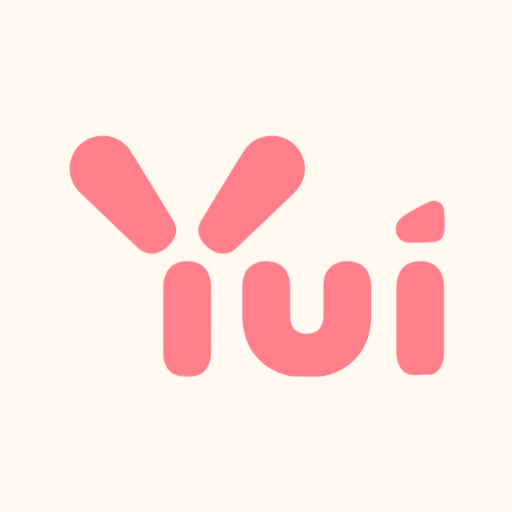
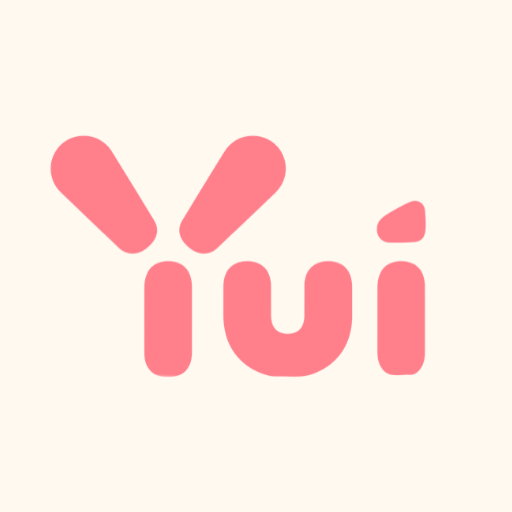
The wordmark is optically centered: 5% of its width left, everywhere it is centered
The Y's left arm leaves open space under it, so centered by its box the
wordmark looks like it sits right. Wherever it is centered it now draws 5%
of its own width to the left; nothing moves up or down, and the Y mark alone
is unchanged.

- brand/yui-logo-*.png and their site copies carry the shift in their padding.
- site/app/icon.png, apple-icon.png and the square logos in site/public/brand
  are rebuilt with it.
- Press kit card shows the padded logo, so the shift comes with it.
- Videos: the outro and header wordmark center with translateX(-55%) in the
  kit and the early compositions.
- brand/README.md writes the rule down.

Changed region(s): [[0.0938, 0.25, 0.875, 0.75]]

diff --git a/videos/01-meet-yui/work/comp.html b/videos/01-meet-yui/work/comp.html
@@ -50,7 +50,7 @@ html, body { margin: 0; width: 1920px; height: 1080px; overflow: hidden; backgro
 .apphead { position: absolute; left: 0; right: 0; top: 54px; height: 60px; z-index: 4; background: linear-gradient(var(--background) 70%, rgba(255,249,240,0)); }
 .hbtn { position: absolute; top: 4px; width: 44px; height: 44px; border-radius: 50%; background: #F6EDE2; box-shadow: 0 1px 2px rgba(58,51,64,.08), inset 0 0 0 1px #EFE3D5; display: grid; place-items: center; }
 .hbtn svg { width: 22px; height: 22px; }
-.apphead .hwm { position: absolute; left: 50%; top: 13px; height: 25px; transform: translateX(-50%); }
+.apphead .hwm { position: absolute; left: 50%; top: 13px; height: 25px; transform: translateX(-55%); }
 .chat { position: absolute; left: 0; right: 0; top: 104px; bottom: 86px; overflow: hidden; -webkit-mask-image: linear-gradient(transparent 0, #000 22px); }
 .log { position: absolute; left: 0; right: 0; bottom: 0; padding: 0 16px 10px; }
 .msg { overflow: visible; }
@@ -104,7 +104,7 @@ html, body { margin: 0; width: 1920px; height: 1080px; overflow: hidden; backgro
 
 /* Outro */
 #outro { position: absolute; left: 0; right: 0; top: 0; height: 1080px; text-align: center; }
-#outro .wm { height: 230px; margin: 0 auto; position: absolute; left: 50%; top: 190px; transform: translateX(-50%); }
+#outro .wm { height: 230px; margin: 0 auto; position: absolute; left: 50%; top: 190px; transform: translateX(-55%); }
 #outro .tag { position: absolute; left: 0; right: 0; top: 480px; font-size: 76px; font-weight: 800; letter-spacing: -0.02em; }
 #outro .url { position: absolute; left: 0; right: 0; top: 600px; font-size: 64px; font-weight: 800; color: var(--link); letter-spacing: -0.01em; }
 #outro .pills { position: absolute; left: 0; right: 0; top: 720px; display: flex; justify-content: center; gap: 20px; }
@@ -481,7 +481,7 @@ function render(t) {
   if (ov) {
     const w = back(prog(t, 18.5, 19.0));
     $("owm").style.opacity = clamp(prog(t, 18.5, 18.66));
-    $("owm").style.transform = `translateX(-50%) scale(${0.6 + 0.4 * w + prog(t, 19, 21.5) * 0.03})`;
+    $("owm").style.transform = `translateX(-55%) scale(${0.6 + 0.4 * w + prog(t, 19, 21.5) * 0.03})`;
     textIO($("otag"), t, 18.86, 99);
     textIO($("ourl"), t, 19.22, 99);
     textIO($("opills"), t, 19.5, 99, 20);

diff --git a/videos/03-jam/work/comp-reel.html b/videos/03-jam/work/comp-reel.html
@@ -41,7 +41,7 @@ html, body { margin: 0; width: 1080px; height: 1920px; overflow: hidden; backgro
 .apphead { position: absolute; left: 0; right: 0; top: 54px; height: 60px; z-index: 4; background: linear-gradient(var(--background) 70%, rgba(35,29,51,0)); }
 .hbtn { position: absolute; top: 4px; width: 44px; height: 44px; border-radius: 50%; background: var(--raised); box-shadow: inset 0 0 0 1px var(--outline); display: grid; place-items: center; }
 .hbtn svg { width: 22px; height: 22px; }
-.hwm { position: absolute; left: 50%; top: 13px; height: 25px; transform: translateX(-50%); }
+.hwm { position: absolute; left: 50%; top: 13px; height: 25px; transform: translateX(-55%); }
 .chat { position: absolute; left: 0; right: 0; top: 104px; bottom: 86px; overflow: hidden; -webkit-mask-image: linear-gradient(transparent 0, #000 22px); }
 .log { position: absolute; left: 0; right: 0; bottom: 0; padding: 0 14px 10px; }
 .msg > .in { transform-origin: 50% 100%; }
@@ -465,7 +465,7 @@ function render(t) {
   if (ov) {
     const w = back(prog(t, 57.4, 57.9));
     $("owm").style.opacity = clamp(prog(t, 57.4, 57.55));
-    $("owm").style.transform = `translateX(-50%) scale(${0.6 + 0.4 * w + prog(t, 58, 64) * 0.03 + 0.03 * clamp(pulse)})`;
+    $("owm").style.transform = `translateX(-55%) scale(${0.6 + 0.4 * w + prog(t, 58, 64) * 0.03 + 0.03 * clamp(pulse)})`;
     textIO($("otag"), t, 57.8, 99, 30, false);
     textIO($("ourl"), t, 58.2, 99, 30, false);
     textIO($("onote"), t, 58.6, 99, 20, false);

diff --git a/videos/03-jam/work/comp.html b/videos/03-jam/work/comp.html
@@ -41,7 +41,7 @@ html, body { margin: 0; width: 1920px; height: 1080px; overflow: hidden; backgro
 .apphead { position: absolute; left: 0; right: 0; top: 54px; height: 60px; z-index: 4; background: linear-gradient(var(--background) 70%, rgba(35,29,51,0)); }
 .hbtn { position: absolute; top: 4px; width: 44px; height: 44px; border-radius: 50%; background: var(--raised); box-shadow: inset 0 0 0 1px var(--outline); display: grid; place-items: center; }
 .hbtn svg { width: 22px; height: 22px; }
-.hwm { position: absolute; left: 50%; top: 13px; height: 25px; transform: translateX(-50%); }
+.hwm { position: absolute; left: 50%; top: 13px; height: 25px; transform: translateX(-55%); }
 .chat { position: absolute; left: 0; right: 0; top: 104px; bottom: 86px; overflow: hidden; -webkit-mask-image: linear-gradient(transparent 0, #000 22px); }
 .log { position: absolute; left: 0; right: 0; bottom: 0; padding: 0 14px 10px; }
 .msg > .in { transform-origin: 50% 100%; }
@@ -465,7 +465,7 @@ function render(t) {
   if (ov) {
     const w = back(prog(t, 57.4, 57.9));
     $("owm").style.opacity = clamp(prog(t, 57.4, 57.55));
-    $("owm").style.transform = `translateX(-50%) scale(${0.6 + 0.4 * w + prog(t, 58, 64) * 0.03 + 0.03 * clamp(pulse)})`;
+    $("owm").style.transform = `translateX(-55%) scale(${0.6 + 0.4 * w + prog(t, 58, 64) * 0.03 + 0.03 * clamp(pulse)})`;
     textIO($("otag"), t, 57.8, 99, 30, false);
     textIO($("ourl"), t, 58.2, 99, 30, false);
     textIO($("onote"), t, 58.6, 99, 20, false);

diff --git a/videos/02-plan-to-launch/work/comp-reel.html b/videos/02-plan-to-launch/work/comp-reel.html
@@ -36,7 +36,7 @@ html, body { margin: 0; width: 1080px; height: 1920px; overflow: hidden; backgro
 .apphead { position: absolute; left: 0; right: 0; top: 54px; height: 60px; z-index: 4; background: linear-gradient(var(--background) 70%, rgba(255,249,240,0)); }
 .hbtn { position: absolute; top: 4px; width: 44px; height: 44px; border-radius: 50%; background: #F6EDE2; box-shadow: 0 1px 2px rgba(58,51,64,.08), inset 0 0 0 1px #EFE3D5; display: grid; place-items: center; }
 .hbtn svg { width: 22px; height: 22px; }
-#hwm { position: absolute; left: 50%; top: 13px; height: 25px; transform: translateX(-50%); }
+#hwm { position: absolute; left: 50%; top: 13px; height: 25px; transform: translateX(-55%); }
 .chat { position: absolute; left: 0; right: 0; top: 104px; bottom: 86px; overflow: hidden; -webkit-mask-image: linear-gradient(transparent 0, #000 22px); }
 .log { position: absolute; left: 0; right: 0; bottom: 0; padding: 0 14px 10px; }
 .msg > .in { transform-origin: 50% 100%; }
@@ -674,7 +674,7 @@ function render(t) {
   if (ov) {
     const w = back(prog(t, b(128), b(128) + 0.5));
     $("owm").style.opacity = clamp(prog(t, b(128), b(128) + 0.15));
-    $("owm").style.transform = `translateX(-50%) scale(${0.6 + 0.4 * w + prog(t, b(129), 60) * 0.035})`;
+    $("owm").style.transform = `translateX(-55%) scale(${0.6 + 0.4 * w + prog(t, b(129), 60) * 0.035})`;
     fadeIO($("otag"), t, b(129), 99);
     fadeIO($("ourl"), t, b(130), 99);
     fadeIO($("obeta"), t, b(131), 99, 20);

diff --git a/videos/02-plan-to-launch/work/comp.html b/videos/02-plan-to-launch/work/comp.html
@@ -35,7 +35,7 @@ html, body { margin: 0; width: 1920px; height: 1080px; overflow: hidden; backgro
 .apphead { position: absolute; left: 0; right: 0; top: 54px; height: 60px; z-index: 4; background: linear-gradient(var(--background) 70%, rgba(255,249,240,0)); }
 .hbtn { position: absolute; top: 4px; width: 44px; height: 44px; border-radius: 50%; background: #F6EDE2; box-shadow: 0 1px 2px rgba(58,51,64,.08), inset 0 0 0 1px #EFE3D5; display: grid; place-items: center; }
 .hbtn svg { width: 22px; height: 22px; }
-#hwm { position: absolute; left: 50%; top: 13px; height: 25px; transform: translateX(-50%); }
+#hwm { position: absolute; left: 50%; top: 13px; height: 25px; transform: translateX(-55%); }
 .chat { position: absolute; left: 0; right: 0; top: 104px; bottom: 86px; overflow: hidden; -webkit-mask-image: linear-gradient(transparent 0, #000 22px); }
 .log { position: absolute; left: 0; right: 0; bottom: 0; padding: 0 14px 10px; }
 .msg > .in { transform-origin: 50% 100%; }
@@ -673,7 +673,7 @@ function render(t) {
   if (ov) {
     const w = back(prog(t, b(128), b(128) + 0.5));
     $("owm").style.opacity = clamp(prog(t, b(128), b(128) + 0.15));
-    $("owm").style.transform = `translateX(-50%) scale(${0.6 + 0.4 * w + prog(t, b(129), 60) * 0.035})`;
+    $("owm").style.transform = `translateX(-55%) scale(${0.6 + 0.4 * w + prog(t, b(129), 60) * 0.035})`;
     fadeIO($("otag"), t, b(129), 99);
     fadeIO($("ourl"), t, b(130), 99);
     fadeIO($("obeta"), t, b(131), 99, 20);

diff --git a/videos/kit/kit.css b/videos/kit/kit.css
@@ -61,7 +61,7 @@ body.dark .phone { box-shadow: 0 50px 110px rgba(0,0,0,.55), 0 0 0 2px #4A3F5E, 
 .hbtn { position: absolute; top: 4px; width: 44px; height: 44px; border-radius: 50%; background: var(--raised); box-shadow: inset 0 0 0 1px var(--outline); display: grid; place-items: center; }
 .hbtn svg { width: 22px; height: 22px; }
 .hchip { position: absolute; left: 50%; top: 10px; transform: translateX(-50%); display: flex; align-items: center; gap: 7px; font-size: 17px; font-weight: 800; white-space: nowrap; }
-.hwm { position: absolute; left: 50%; top: 13px; height: 25px; transform: translateX(-50%); }
+.hwm { position: absolute; left: 50%; top: 13px; height: 25px; transform: translateX(-55%); }
 .chat { position: absolute; left: 0; right: 0; top: 104px; bottom: 86px; overflow: hidden; -webkit-mask-image: linear-gradient(transparent 0, #000 22px); }
 .log { position: absolute; left: 0; right: 0; bottom: 0; padding: 0 14px 10px; }
 .msg > .in { transform-origin: 50% 100%; }

diff --git a/site/app/globals.css b/site/app/globals.css
@@ -942,7 +942,8 @@ ol.yl-list li::before { counter-increment: n; content: counter(n); color: var(--
 .pk-grid { display: grid; grid-template-columns: repeat(auto-fill, minmax(260px, 1fr)); gap: 24px; margin-top: 16px; }
 .pk-item { border: 1.5px solid var(--outline); border-radius: 20px; padding: 16px; min-width: 0; }
 .pk-item img { width: 100%; height: auto; border-radius: 12px; display: block; }
-.pk-item img.pk-mark { background: #FFF9F0; padding: 28px 40px; box-sizing: border-box; aspect-ratio: 16 / 9; object-fit: contain; }
+/* The padded logo file carries the wordmark's optical centering (brand/README.md), so it is shown whole. */
+.pk-item img.pk-mark { background: #FFF9F0; padding: 12px 24px; box-sizing: border-box; aspect-ratio: 16 / 9; object-fit: contain; }
 .pk-item h3 { margin: 12px 0 4px; }
 .pk-item p { margin: 0 0 4px; }
 .sc-entry.planned .sc-phone { opacity: .92; outline: 2px dashed var(--butter); outline-offset: 6px; }

diff --git a/site/app/mockups/page.js b/site/app/mockups/page.js
@@ -119,7 +119,7 @@ function PressKit() {
           </article>
         ))}
         <article className="pk-item">
-          <img src="/brand/yui-wordmark-coral.png" alt="The Yui wordmark in coral" loading="lazy" className="pk-mark" />
+          <img src="/brand/yui-logo-coral.png" alt="The Yui wordmark in coral" loading="lazy" className="pk-mark" />
           <h3>Wordmark</h3>
           <p>Coral #FF7E8A on cream #FFF9F0. Type only, no mascot. Keep it coral or ink, and give it room.</p>
           <ul className="pk-downloads"><li><a href="/brand/yui-wordmark-coral.png" download>Wordmark PNG</a> <span>coral, transparent</span></li></ul>

diff --git a/videos/kit/kit.js b/videos/kit/kit.js
@@ -192,7 +192,7 @@ const K = (() => {
     if (t <= t0 - 0.1) return;
     const w = back(prog(t, t0, t0 + 0.5));
     $("owm").style.opacity = clamp(prog(t, t0, t0 + 0.15));
-    $("owm").style.transform = `translateX(-50%) scale(${0.6 + 0.4 * w + prog(t, t0 + 0.5, t0 + 8) * 0.03})`;
+    $("owm").style.transform = `translateX(-55%) scale(${0.6 + 0.4 * w + prog(t, t0 + 0.5, t0 + 8) * 0.03})`;
     textIO("otag", t, t0 + 0.4, 999, 30);
     textIO("ourl", t, t0 + 0.8, 999, 30);
     textIO("onote", t, t0 + 1.2, 999, 20);

diff --git a/brand/README.md b/brand/README.md
@@ -1,0 +1,13 @@
+# Brand files
+
+- `yui-logo-{coral,cream,ink,lavender,mint}.png`: the wordmark, 1701x1177, transparent, with room around it.
+- `yui-logo-master-bw.png`: the master, black on white.
+- `yui-mark-y-ink.png`: the Y alone, 512x512. Centered by its box; it needs no correction.
+- `sketch.jpg`: Chris's sketch the wordmark came from.
+
+## The wordmark is optically centered
+
+The Y's left arm leaves open space under it, so a wordmark centered by its box looks like it sits to the right. Wherever the wordmark is centered, it moves **5% of its own width to the left** of its box center. Nothing moves up or down.
+
+- The padded files here, the square logos in `site/public/brand/`, `site/app/icon.png`, `site/app/apple-icon.png` and the app icon already carry the shift. Place them centered as they are.
+- Tightly cropped files (`site/public/brand/yui-wordmark-coral.png` and its webp, the app's `Wordmark` image) carry none. When one is centered, shift it in code: the videos use `translateX(-55%)`, the app's `Wordmark` view offsets itself. Left-aligned placements (the site header and footer) stay as they are.
